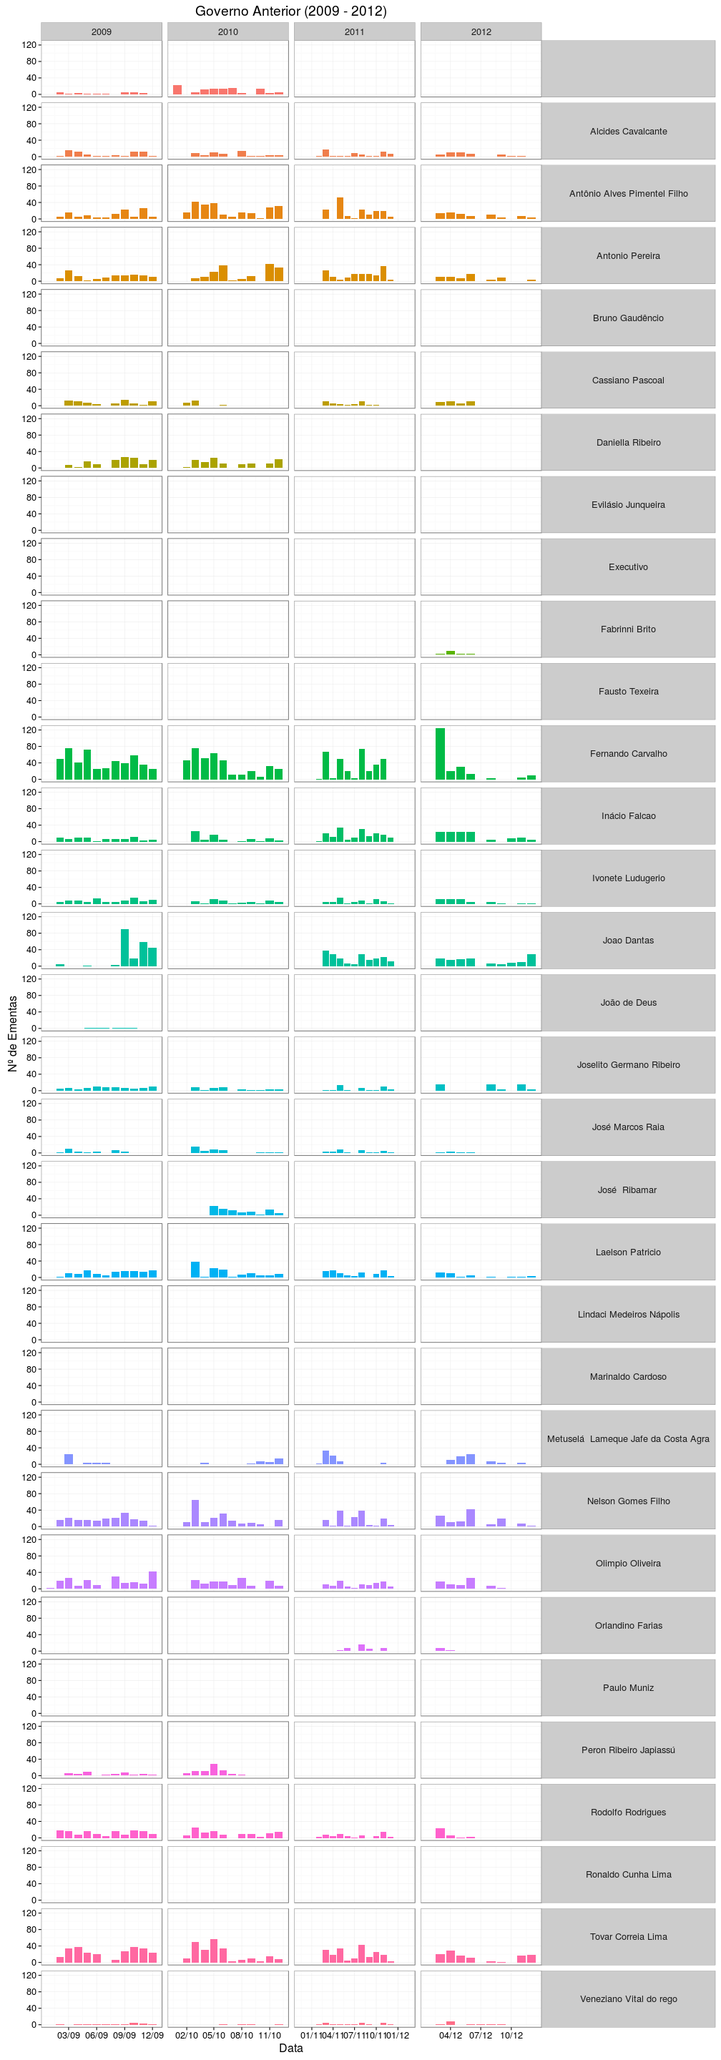
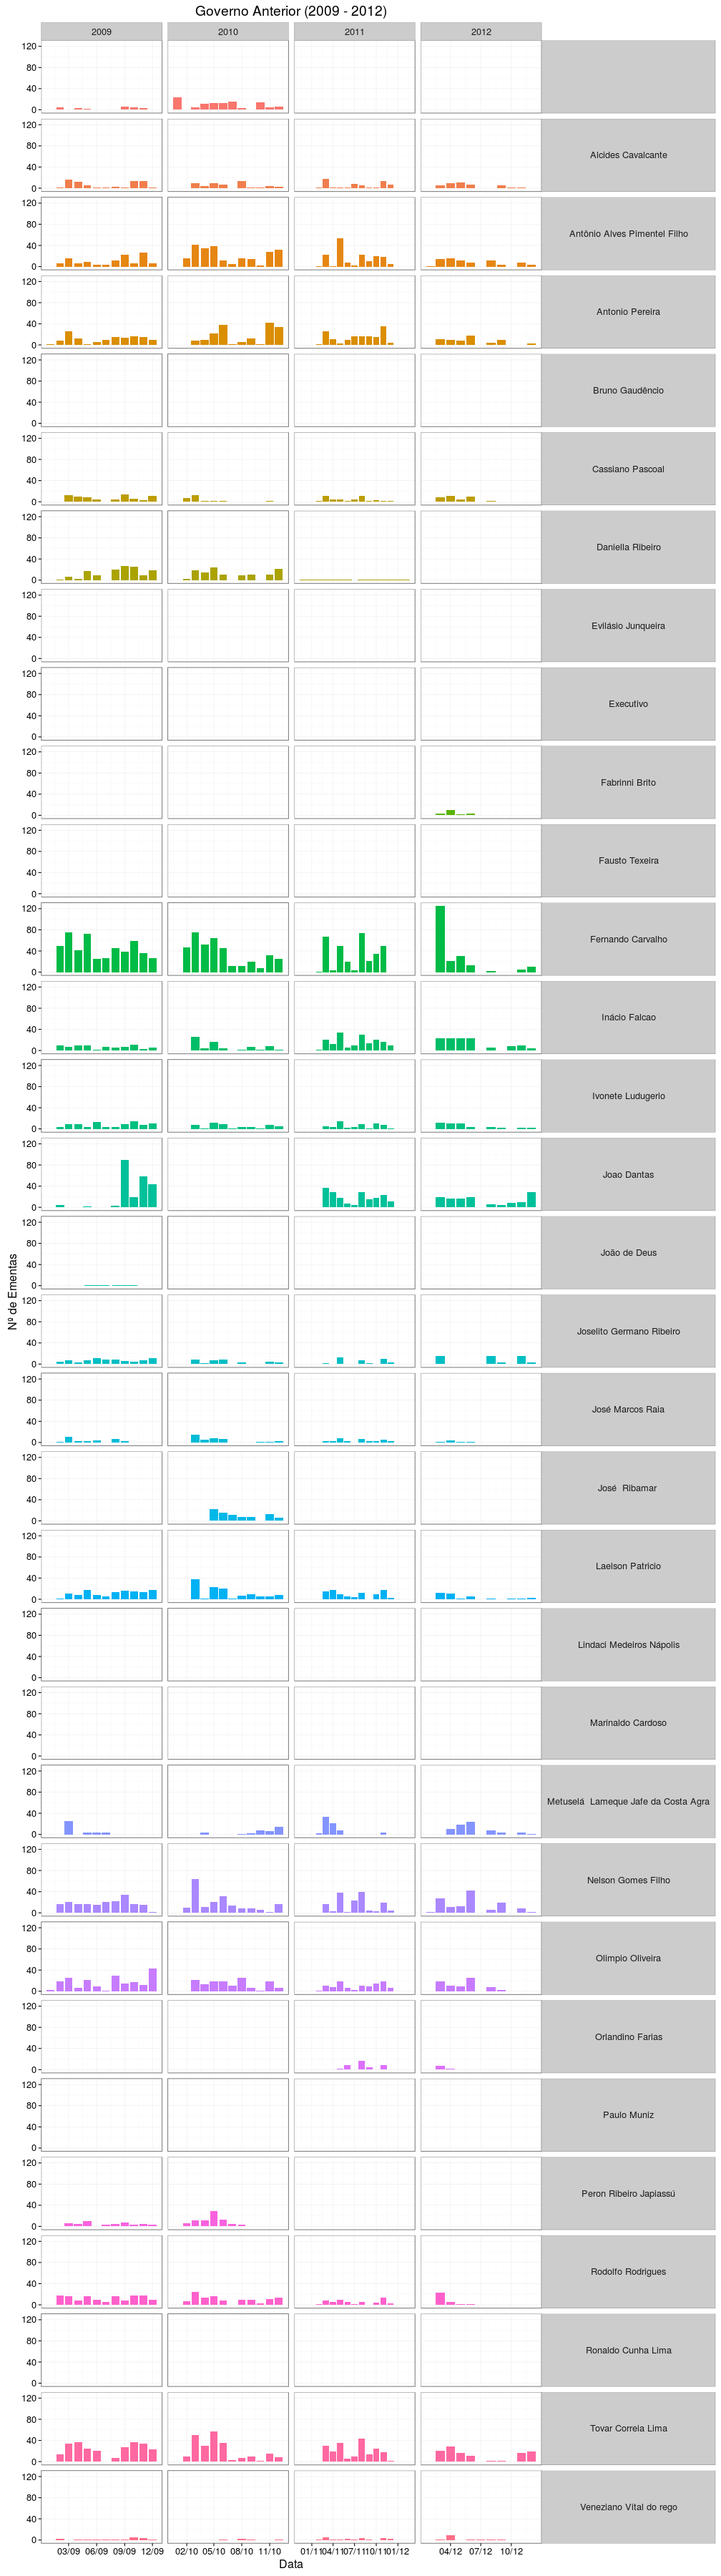
Atualizando mds com imagens maiores e erro de portugues

diff --git a/insights/vereador_expliqueme.md b/insights/vereador_expliqueme.md
@@ -6,11 +6,12 @@ output:
         variant: markdown_github
 ---
 
-
-
 # Meu Vereador? Explique-me por favor...
 
-Nessa análise buscamos capturar os padrões temporais do trabalho dos vereadores da Câmara Municipal de Campina Grande individualmente. E apenas visualizando os gráficos no tempo encontramos alguns vereadores que publicam ementas corriqueiramente, mas estranhamente vemos vários que não tem ementa alguma? Qual a razão dessa disparidade? 
+
+
+Nessa análise buscamos capturar os padrões temporais do trabalho dos vereadores da Câmara Municipal de Campina Grande individualmente (notem que os Prefeitos também estão inclusos pois também podem propor ementas). Visualizando os gráficos no tempo encontramos alguns vereadores que publicam ementas corriqueiramente, mas estranhamente vemos vários que passam anos sem propor ementa alguma? Qual a razão dessa disparidade? 
 
 ![plot of chunk proponent_over_time](figure/proponent_over_time-1.png)![plot of chunk proponent_over_time](figure/proponent_over_time-2.png)
 
+---

diff --git a/insights/temas_no_tempo.md b/insights/temas_no_tempo.md
@@ -6,16 +6,16 @@ output:
         variant: markdown_github
 ---
 
-
-
 # O tempo passa mas os temas se repetem...
+
+
 
 Nessa análise buscamos capturar os padrões temporais das ementas durante os mandatos de cada governo.
 
 Expomos abaixo a quantidade de ementas aprovadas por cada governo durante seus mandatos. Um ponto interessante a ressaltar é o período de férias dos Vereadores. Os vereadores possuem dois períodos de férias anuais:
 
-  * 21 de Dezembro a 19 de Fevereiro (2 meses de férias)
-  * 21 de Junho a 19 de Julho (1 mês de férias)
+* 21 de Dezembro a 19 de Fevereiro (2 meses de férias)
+* 21 de Junho a 19 de Julho (1 mês de férias)
 
 O que acaba impactando negativamente no rendimento das ementas. Os meses de Janeiro e Fevereiro são os que de fato mais sofrem esse impacto, Junho e Julho tendem a ter menos ementas mas isso não é regra geral.
 

diff --git a/insights/tematicas_parlamentares.md b/insights/tematicas_parlamentares.md
@@ -6,9 +6,9 @@ output:
         variant: markdown_github
 ---
 
-
-
 # Temáticas Parlamentares
+
+
 
 Nosso objetivo com essa análise é chamar a atenção para os principais temas que tem sido discutidos na nossa Câmara Municipal. Faremos isso de várias formas, inicialmente mostramos que o governo atual (2013 - 2016) tramitou e aprovou mais ementas do que o governo anterior (2009 - 2012), o que é algo esperado já que o anterior era composto por apenas 16 vereadores e o atual por 23. 
 

diff --git a/insights/quanto_ganham.md b/insights/quanto_ganham.md
@@ -7,6 +7,7 @@ output:
 ---
 
 # Quanto ganham os Vereadores?
+
 Para sabermos quanto cada vereador de de Campina Grande recebe, fomos à constituição e encontramos a
 [Emenda Nº 25](http://www.planalto.gov.br/ccivil_03/Constituicao/Emendas/Emc/emc25.htm) da qual extraimos o inciso VI do Artigo 29 (abaixo) e percebemos que tudo depende de quanto ganham os Deputados Estaduais.
 

diff --git a/insights/como_funciona.md b/insights/como_funciona.md
@@ -6,9 +6,9 @@ output:
         variant: markdown_github
 ---
 
-
-
 # Como Funciona a Câmara Municipal de Campina Grande?
+
+
 
 ## Dados gerais da 16ª Legislatura (2013 - 2016)
 
